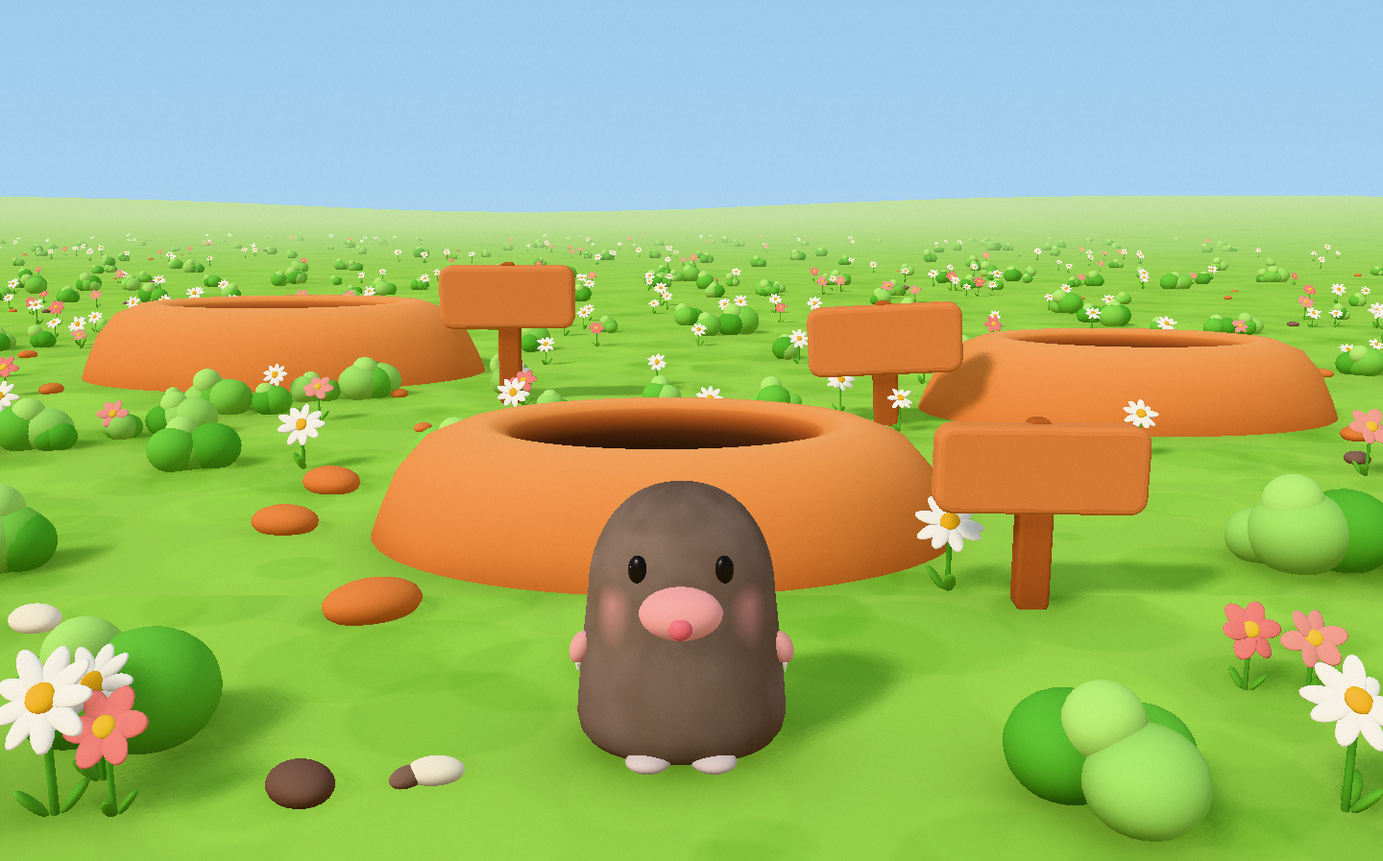
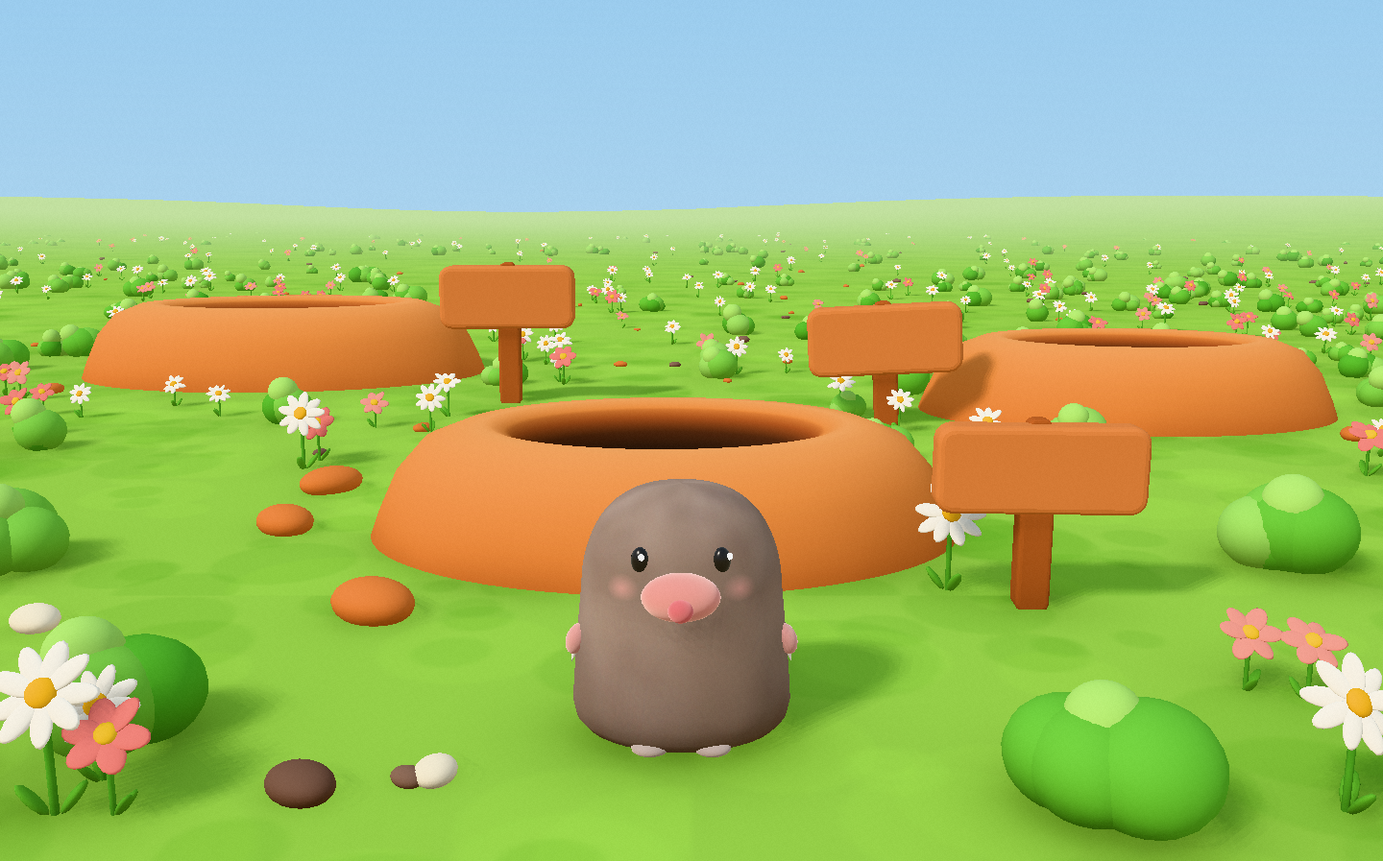
두더지 펠트 질감 (섬유 노멀맵·sheen·잔털 셸), 원본과 9회 비교하며 다듬음

diff --git a/explore/3d/field.html b/explore/3d/field.html
@@ -99,7 +99,7 @@ body.bare .tag,body.bare .handle{display:none!important}
     </section>
     <section class="card">
       <h2>항목별 비교</h2>
-      <ul id="items"><li><span class="pill ok">가까움</span><span>카메라 구도, 지평선 높이, 하늘 그라데이션</span></li><li><span class="pill ok">가까움</span><span>둔덕 3개 위치와 크기, 어두운 구멍</span></li><li><span class="pill ok">가까움</span><span>두더지 실루엣(아래가 넓은 젤리형), 눈·코·볼·손·발 위치</span></li><li><span class="pill warn">부분</span><span>두더지 털 질감과 부드러운 빛 번짐 (원본이 더 보송보송)</span></li><li><span class="pill warn">부분</span><span>표지판 나무결, 둔덕의 울퉁불퉁한 가장자리</span></li><li><span class="pill warn">부분</span><span>먼 곳 꽃·덤불 밀도와 흐려짐</span></li><li><span class="pill ok">가까움</span><span>조명: PlayCanvas 버전과 같은 그라데이션 환경광 + 부드러운 그림자 + N8AO 구석 그림자 ("PlayCanvas식 조명"을 끄면 처음 버전)</span></li></ul>
+      <ul id="items"><li><span class="pill ok">가까움</span><span>카메라 구도, 지평선 높이, 하늘 그라데이션</span></li><li><span class="pill ok">가까움</span><span>둔덕 3개 위치와 크기, 어두운 구멍</span></li><li><span class="pill ok">가까움</span><span>두더지 실루엣(아래가 넓은 젤리형), 눈·코·볼·손·발 위치</span></li><li><span class="pill ok">가까움</span><span>두더지 펠트 질감: 섬유 결 + 천 재질 반사(sheen) + 잔털 막 12겹으로 보송한 윤곽 ("두더지 확대"로 원본과 비교)</span></li><li><span class="pill warn">부분</span><span>부드러운 빛 번짐(간접광)은 원본이 더 풍부함</span></li><li><span class="pill warn">부분</span><span>표지판 나무결, 둔덕의 울퉁불퉁한 가장자리</span></li><li><span class="pill warn">부분</span><span>먼 곳 꽃·덤불 밀도와 흐려짐</span></li><li><span class="pill ok">가까움</span><span>조명: PlayCanvas 버전과 같은 그라데이션 환경광 + 부드러운 그림자 + N8AO 구석 그림자 ("PlayCanvas식 조명"을 끄면 처음 버전)</span></li></ul>
     </section>
   </div>
 </div>
@@ -311,69 +311,136 @@ function sign(base, topY, boardW, boardH, ry = 0, rz = 0) {
 }
 
 /* ---------- 두더지 ---------- */
+/* ---------- 두더지 펠트 재료 ---------- */
+// 섬유 노멀맵: 짧은 털 가닥을 높이맵으로 그린 뒤 기울기로 노멀을 만듦
+function feltNormalTex(size = 512, strands = 9000, rep = [6, 3]) {
+  const c = document.createElement('canvas'); c.width = c.height = size; const g = c.getContext('2d');
+  g.fillStyle = 'rgb(128,128,128)'; g.fillRect(0, 0, size, size);
+  g.lineCap = 'round';
+  for (let i = 0; i < strands; i++) {
+    const x = Math.random() * size, y = Math.random() * size, a = Math.random() * Math.PI * 2, l = 2 + Math.random() * 6, v = Math.random() < .5 ? 175 : 85;
+    g.strokeStyle = `rgba(${v},${v},${v},.55)`; g.lineWidth = .6 + Math.random() * .8;
+    for (const ox of [-size, 0, size]) for (const oy of [-size, 0, size]) { g.beginPath(); g.moveTo(x + ox, y + oy); g.lineTo(x + ox + Math.cos(a) * l, y + oy + Math.sin(a) * l); g.stroke(); }
+  }
+  const src = g.getImageData(0, 0, size, size).data, out = g.createImageData(size, size), h = (x, y) => src[(((y + size) % size) * size + ((x + size) % size)) * 4] / 255;
+  for (let y = 0; y < size; y++) for (let x = 0; x < size; x++) {
+    const dx = (h(x + 1, y) - h(x - 1, y)) * 2.0, dy = (h(x, y + 1) - h(x, y - 1)) * 2.0, l = Math.hypot(dx, dy, 1), i = (y * size + x) * 4;
+    out.data[i] = (-dx / l * .5 + .5) * 255; out.data[i + 1] = (dy / l * .5 + .5) * 255; out.data[i + 2] = (1 / l * .5 + .5) * 255; out.data[i + 3] = 255;
+  }
+  g.putImageData(out, 0, 0);
+  const t = new THREE.CanvasTexture(c); t.wrapS = t.wrapT = THREE.RepeatWrapping; t.repeat.set(...rep); t.anisotropy = 8; return t;
+}
+// 잔털 알파맵: 픽셀마다 무작위 값. 껍질마다 alphaTest를 올려 바깥일수록 털이 드문드문
+function fuzzAlphaTex(size = 512, rep = [10, 5]) {
+  const c = document.createElement('canvas'); c.width = c.height = size; const g = c.getContext('2d'), d = g.createImageData(size, size);
+  for (let i = 0; i < d.data.length; i += 4) { const v = Math.pow(Math.random(), 1.4) * 255; d.data[i] = d.data[i + 1] = d.data[i + 2] = v; d.data[i + 3] = 255; }
+  g.putImageData(d, 0, 0);
+  const t = new THREE.CanvasTexture(c); t.wrapS = t.wrapT = THREE.RepeatWrapping; t.repeat.set(...rep); t.magFilter = THREE.NearestFilter; return t;
+}
+const MOLE_FELT = {
+  body: '#977f72', nose: '#f39e96', tip: '#e9787c', paw: '#f2aaa4', foot: '#ebd2c9',
+  sheen: 1, nScale: .45, shells: 12, fuzz: .014, tipLight: .18,
+  cheekY: .655, cheekPhi: .6, cheekR: 32, cheekA: .5,
+};
+MOLE_FELT.normal = feltNormalTex();
+MOLE_FELT.fuzzTex = fuzzAlphaTex();
+
 function makeMole() {
-  const H = 1, W = .76;           // 높이 1 기준 비율 (높이:폭 ≈ 1.3:1)
+  const H = 1, W = .83;           // 높이 1 기준 비율 (높이:폭 ≈ 1.3:1)
   const R = W / 2;
   // 단면: 평평한 바닥 → 살짝 넓은 아랫부분 → 거의 수직 옆면 → 둥근 머리
   const pts = [new THREE.Vector2(0, 0)];
   pts.push(new THREE.Vector2(R * .82, 0), new THREE.Vector2(R * .96, .018), new THREE.Vector2(R * 1.03, .055), new THREE.Vector2(R * 1.06, .11));
-  for (let i = 1; i <= 10; i++) { const y = .11 + (.6 - .11) * i / 10; pts.push(new THREE.Vector2(R * (1.06 - .13 * Math.pow(i / 10, 1.2)), y)); }
-  const capH = H - .6, r0 = R * .93;
-  for (let i = 1; i <= 24; i++) { const a = i / 24 * Math.PI / 2; pts.push(new THREE.Vector2(Math.max(0.0001, r0 * Math.pow(Math.cos(a), .85)), .6 + capH * Math.pow(Math.sin(a), 1.1))); }
+  for (let i = 1; i <= 10; i++) { const y = .11 + (.6 - .11) * i / 10; pts.push(new THREE.Vector2(R * (1.06 - .1 * Math.pow(i / 10, 1.2)), y)); }
+  const capH = H - .6, r0 = R * .96; // 옆면 꼭대기와 같은 반지름 (턱 없이 이어지게)
+  for (let i = 1; i <= 24; i++) { const a = i / 24 * Math.PI / 2; pts.push(new THREE.Vector2(Math.max(0.0001, r0 * Math.pow(Math.cos(a), .7)), .6 + capH * Math.pow(Math.sin(a), 1.1))); }
   const rAt = y => { for (let i = 1; i < pts.length; i++) if (pts[i].y >= y) { const a = pts[i - 1], b = pts[i]; return a.x + (b.x - a.x) * (y - a.y) / (b.y - a.y || 1); } return 0; };
   const vAt = y => { for (let i = 1; i < pts.length; i++) if (pts[i].y >= y) return (i - 1 + (y - pts[i - 1].y) / (pts[i].y - pts[i - 1].y || 1)) / (pts.length - 1); return 1; };
   const ZS = .84; // 앞뒤로 약간 납작
 
-  // 몸 텍스처: 회갈색 + 은은한 얼룩 + 볼터치
+  /* --- 펠트 재료: 섬유 노멀맵 + 잔털 알파맵 (한 번 만들어 코·손·발도 같이 씀) --- */
+  const FELT = MOLE_FELT;
+
+  /* --- 몸 색 텍스처: 회갈색 + 큰 얼룩 + 볼터치 --- */
   const TW = 1024, TH = 512;
   const c = document.createElement('canvas'); c.width = TW; c.height = TH; const g = c.getContext('2d');
-  g.fillStyle = '#7f695d'; g.fillRect(0, 0, TW, TH);
-  g.filter = 'blur(6px)'; for (let i = 0; i < 260; i++) { g.fillStyle = Math.random() < .6 ? 'rgba(165,142,126,.08)' : 'rgba(80,58,48,.05)'; g.beginPath(); g.ellipse(Math.random() * TW, Math.random() * TH, 20 + Math.random() * 60, 14 + Math.random() * 40, Math.random() * 3, 0, 7); g.fill(); } g.filter = 'none';
-  // 아래쪽은 살짝 어둡게, 머리 쪽은 살짝 밝게
-  const vg = g.createLinearGradient(0, 0, 0, TH); vg.addColorStop(0, 'rgba(40,25,18,.25)'); vg.addColorStop(.35, 'rgba(0,0,0,0)'); vg.addColorStop(1, 'rgba(255,235,220,.06)');
+  g.fillStyle = FELT.body; g.fillRect(0, 0, TW, TH);
+  g.filter = 'blur(10px)';
+  for (let i = 0; i < 200; i++) { g.fillStyle = Math.random() < .6 ? 'rgba(178,158,144,.1)' : 'rgba(84,62,52,.05)'; g.beginPath(); g.ellipse(Math.random() * TW, Math.random() * TH, 30 + Math.random() * 80, 20 + Math.random() * 50, Math.random() * 3, 0, 7); g.fill(); }
+  g.filter = 'none';
+  // 아래쪽은 살짝 어둡게, 머리 쪽은 살짝 밝게 (캔버스 아래 = 몸 아래)
+  const vg = g.createLinearGradient(0, 0, 0, TH); vg.addColorStop(0, 'rgba(255,240,228,.08)'); vg.addColorStop(.7, 'rgba(0,0,0,0)'); vg.addColorStop(1, 'rgba(40,25,18,.06)');
   g.fillStyle = vg; g.fillRect(0, 0, TW, TH);
   // 볼터치 (u: 0.5가 정면, v: 단면 위치)
-  const cheekY = .6, cheekPhi = .78;
   for (const s of [-1, 1]) {
-    const u = .5 + s * cheekPhi / (Math.PI * 2), v = vAt(cheekY);
-    const cx = u * TW, cy = v * TH;  // 캔버스 y는 flipY로 뒤집힘
-    const cyy = TH - cy;
-    const gr = g.createRadialGradient(cx, cyy, 0, cx, cyy, 46);
-    gr.addColorStop(0, 'rgba(246,160,160,.6)'); gr.addColorStop(.55, 'rgba(244,160,160,.28)'); gr.addColorStop(1, 'rgba(240,140,140,0)');
-    g.save(); g.translate(cx, cyy); g.scale(1, 1.05); g.translate(-cx, -cyy); g.fillStyle = gr; g.beginPath(); g.arc(cx, cyy, 46, 0, 7); g.fill(); g.restore();
+    const u = .5 + s * FELT.cheekPhi / (Math.PI * 2), v = vAt(FELT.cheekY);
+    const cx = u * TW, cy = TH - v * TH, r = FELT.cheekR;
+    const gr = g.createRadialGradient(cx, cy, 0, cx, cy, r);
+    gr.addColorStop(0, `rgba(255,172,168,${FELT.cheekA})`); gr.addColorStop(.55, `rgba(255,175,170,${FELT.cheekA * .45})`); gr.addColorStop(1, 'rgba(255,175,170,0)');
+    g.fillStyle = gr; g.beginPath(); g.arc(cx, cy, r, 0, 7); g.fill();
   }
   const tex = new THREE.CanvasTexture(c); tex.colorSpace = THREE.SRGBColorSpace; tex.anisotropy = 8;
 
+  const feltMat = (o) => new THREE.MeshPhysicalMaterial({
+    roughness: 1, metalness: 0,
+    normalMap: FELT.normal, normalScale: new THREE.Vector2(FELT.nScale, FELT.nScale),
+    sheen: FELT.sheen, sheenRoughness: .5, sheenColor: new THREE.Color(o.sheenColor || '#f3e4da'),
+    ...o.base,
+  });
+
   const mole = new THREE.Group();
-  const bodyGeo = new THREE.LatheGeometry(pts, 96, -Math.PI, Math.PI * 2);
-  const body = add(new THREE.Mesh(bodyGeo, new THREE.MeshStandardMaterial({ map: tex, roughness: 1, bumpMap: noiseTex(256, 110, 30, 6), bumpScale: .8 })), mole);
+  const bodyGeo = new THREE.LatheGeometry(pts, 128, -Math.PI, Math.PI * 2);
+  const bodyMat = feltMat({ base: { map: tex } });
+  // 정수리(회전체 극점)에서는 노멀맵 방향 계산이 불안정해 밝은 줄이 생김 → 위로 갈수록 노멀맵 세기를 0으로
+  bodyMat.onBeforeCompile = sh => {
+    sh.vertexShader = 'varying float vPole;\n' + sh.vertexShader.replace('#include <begin_vertex>', '#include <begin_vertex>\n  vPole = 1.0 - smoothstep(0.84, 0.97, position.y);');
+    sh.fragmentShader = 'varying float vPole;\n' + sh.fragmentShader.replace('mapN.xy *= normalScale;', 'mapN.xy *= normalScale * vPole;');
+  };
+  const body = add(new THREE.Mesh(bodyGeo, bodyMat), mole);
   body.scale.z = ZS;
+
+  // 보송한 잔털 막: 몸을 법선 방향으로 조금씩 부풀린 껍질을 여러 겹, 바깥으로 갈수록 털이 드문드문
+  if (FELT.shells) {
+    const pos = bodyGeo.attributes.position, nrm = bodyGeo.attributes.normal;
+    for (let k = 1; k <= FELT.shells; k++) {
+      const t = k / FELT.shells, geo = bodyGeo.clone(), p = geo.attributes.position;
+      const col = new Float32Array(p.count * 3);
+      for (let i = 0; i < p.count; i++) {
+        const y = pos.getY(i); const top = 1 - THREE.MathUtils.smoothstep(y, .86, .99); // 정수리(극점)는 잔털이 한 점에 몰려 밝은 줄이 생겨서 줄임
+        const fade = Math.min(1, y / .04) * (.35 + .65 * top); // 바닥 쪽은 거의 안 부풂
+        const lt = 1 + t * FELT.tipLight * top; col[i * 3] = col[i * 3 + 1] = col[i * 3 + 2] = lt;
+        p.setXYZ(i, pos.getX(i) + nrm.getX(i) * FELT.fuzz * t * fade, y + nrm.getY(i) * FELT.fuzz * t * fade, pos.getZ(i) + nrm.getZ(i) * FELT.fuzz * t * fade);
+      }
+      geo.setAttribute('color', new THREE.BufferAttribute(col, 3));
+      const m = new THREE.MeshStandardMaterial({ map: tex, alphaMap: FELT.fuzzTex, alphaTest: .25 + t * .6, roughness: 1, vertexColors: true });
+      const sh = new THREE.Mesh(geo, m); sh.scale.z = ZS; sh.receiveShadow = true; mole.add(sh);
+    }
+  }
   // 몸 표면 위의 점 (angle 0 = 정면)
   const surf = (y, ang, out = 0) => { const r = rAt(y) + out; return new THREE.Vector3(r * Math.sin(ang), y, r * Math.cos(ang) * ZS); };
 
   // 눈: 까맣고 반짝이는 작은 타원 + 흰 하이라이트
-  const eyeM = new THREE.MeshStandardMaterial({ color: '#1c1310', roughness: .25, metalness: 0 });
+  const eyeM = new THREE.MeshPhysicalMaterial({ color: '#1a1210', roughness: .18, clearcoat: 1, clearcoatRoughness: .1 });
   const hiM = new THREE.MeshBasicMaterial({ color: '#ffffff' });
   for (const s of [-1, 1]) {
-    const ang = s * .5, p = surf(.735, ang, -.01);
-    const e = add(new THREE.Mesh(SPH, eyeM), mole); e.position.copy(p); e.scale.set(.038, .055, .03); e.rotation.y = ang;
-    const h = new THREE.Mesh(SPH, hiM); h.position.copy(surf(.75, ang - .03, .012)); h.scale.setScalar(.011); mole.add(h);
+    const ang = s * .44, p = surf(.765, ang, -.006);
+    const e = add(new THREE.Mesh(SPH, eyeM), mole); e.position.copy(p); e.scale.set(.036, .052, .03); e.rotation.y = ang;
+    const h = new THREE.Mesh(SPH, hiM); h.position.copy(surf(.785, ang + .05, .03)); h.scale.set(.012, .014, .008); mole.add(h);
   }
-  // 코: 크고 넓적한 연분홍 주둥이
-  const noseM = new THREE.MeshStandardMaterial({ color: '#f5a4a0', roughness: .6 });
-  const nose = add(new THREE.Mesh(SPH, noseM), mole);
-  nose.position.copy(surf(.6, 0, -.03)); nose.position.z += .045; nose.scale.set(.15, .095, .1);
-  const nos = add(new THREE.Mesh(SPH, clay('#e8707a', { roughness: .5 })), mole);
-  nos.position.copy(nose.position).add(new THREE.Vector3(0, -.025, .09)); nos.scale.set(.042, .04, .035);
+  // 코: 넓적한 연분홍 펠트 주둥이 + 튀어나온 코끝
+  const nose = add(new THREE.Mesh(SPH, feltMat({ base: { color: FELT.nose }, sheenColor: '#fff0ec' })), mole);
+  nose.position.copy(surf(.645, 0, -.03)); nose.position.z += .045; nose.scale.set(.15, .092, .1);
+  const nos = add(new THREE.Mesh(SPH, feltMat({ base: { color: FELT.tip }, sheenColor: '#ffd6d6' })), mole);
+  nos.position.copy(nose.position).add(new THREE.Vector3(0, -.022, .092)); nos.scale.set(.048, .045, .04);
   // 손: 양옆 분홍 앞발 + 흰 발톱
-  const pawM = clay('#f2a9a3');
+  const pawM = feltMat({ base: { color: FELT.paw }, sheenColor: '#fff0ec' });
   for (const s of [-1, 1]) {
     const p = surf(.38, s * 1.35, -.02);
     const paw = add(new THREE.Mesh(SPH, pawM), mole); paw.position.copy(p); paw.position.x += s * .03; paw.scale.set(.042, .065, .05); paw.rotation.z = s * .35;
-    for (let k = 0; k < 3; k++) { const cl = add(new THREE.Mesh(new THREE.ConeGeometry(.012, .04, 6), clay('#fbf3ea')), mole); cl.position.set(p.x + s * .04, p.y - .07, p.z - .02 + k * .025); cl.rotation.x = Math.PI; }
+    for (let k = 0; k < 2; k++) { const cl = add(new THREE.Mesh(new THREE.ConeGeometry(.01, .045, 6), clay('#fbf3ea')), mole); cl.position.set(p.x + s * .045, p.y - .075, p.z - .005 + k * .022); cl.rotation.set(Math.PI, 0, -s * .3); }
   }
   // 발: 앞쪽 납작한 연분홍 타원
-  for (const s of [-1, 1]) { const f = add(new THREE.Mesh(SPH, clay('#efd8d2')), mole); f.position.set(s * .12, .025, rAt(.03) * ZS * .92); f.scale.set(.085, .035, .075); }
+  for (const s of [-1, 1]) { const f = add(new THREE.Mesh(SPH, feltMat({ base: { color: FELT.foot } })), mole); f.position.set(s * .12, .022, rAt(.03) * ZS * .88); f.scale.set(.074, .03, .062); }
   return mole;
 }
 
@@ -393,7 +460,7 @@ sign(PD(1488, 962), D(0, 708)[1], 1.3, .5, -.05);
 
 // 두더지: 발 위치와 머리 꼭대기를 원본에 맞춤
 {
-  const base = PD(986, 1148);
+  const base = PD(986, 1128);
   const mole = makeMole(); mole.position.copy(base); scene.add(mole);
   const h = heightTo(base, D(0, 786)[1]); mole.scale.setScalar(h);
 }

diff --git a/explore/3d/room.html b/explore/3d/room.html
@@ -456,69 +456,136 @@ box(scene, .8, .35, .5, '#f2e6d4', -1.2, 0, 3.1, .1, .15);
 
 /* ---------- 두더지 (탐색하기 장면과 같은 캐릭터) ---------- */
 const SPH = new THREE.SphereGeometry(1, 32, 20);
+/* ---------- 두더지 펠트 재료 ---------- */
+// 섬유 노멀맵: 짧은 털 가닥을 높이맵으로 그린 뒤 기울기로 노멀을 만듦
+function feltNormalTex(size = 512, strands = 9000, rep = [6, 3]) {
+  const c = document.createElement('canvas'); c.width = c.height = size; const g = c.getContext('2d');
+  g.fillStyle = 'rgb(128,128,128)'; g.fillRect(0, 0, size, size);
+  g.lineCap = 'round';
+  for (let i = 0; i < strands; i++) {
+    const x = Math.random() * size, y = Math.random() * size, a = Math.random() * Math.PI * 2, l = 2 + Math.random() * 6, v = Math.random() < .5 ? 175 : 85;
+    g.strokeStyle = `rgba(${v},${v},${v},.55)`; g.lineWidth = .6 + Math.random() * .8;
+    for (const ox of [-size, 0, size]) for (const oy of [-size, 0, size]) { g.beginPath(); g.moveTo(x + ox, y + oy); g.lineTo(x + ox + Math.cos(a) * l, y + oy + Math.sin(a) * l); g.stroke(); }
+  }
+  const src = g.getImageData(0, 0, size, size).data, out = g.createImageData(size, size), h = (x, y) => src[(((y + size) % size) * size + ((x + size) % size)) * 4] / 255;
+  for (let y = 0; y < size; y++) for (let x = 0; x < size; x++) {
+    const dx = (h(x + 1, y) - h(x - 1, y)) * 2.0, dy = (h(x, y + 1) - h(x, y - 1)) * 2.0, l = Math.hypot(dx, dy, 1), i = (y * size + x) * 4;
+    out.data[i] = (-dx / l * .5 + .5) * 255; out.data[i + 1] = (dy / l * .5 + .5) * 255; out.data[i + 2] = (1 / l * .5 + .5) * 255; out.data[i + 3] = 255;
+  }
+  g.putImageData(out, 0, 0);
+  const t = new THREE.CanvasTexture(c); t.wrapS = t.wrapT = THREE.RepeatWrapping; t.repeat.set(...rep); t.anisotropy = 8; return t;
+}
+// 잔털 알파맵: 픽셀마다 무작위 값. 껍질마다 alphaTest를 올려 바깥일수록 털이 드문드문
+function fuzzAlphaTex(size = 512, rep = [10, 5]) {
+  const c = document.createElement('canvas'); c.width = c.height = size; const g = c.getContext('2d'), d = g.createImageData(size, size);
+  for (let i = 0; i < d.data.length; i += 4) { const v = Math.pow(Math.random(), 1.4) * 255; d.data[i] = d.data[i + 1] = d.data[i + 2] = v; d.data[i + 3] = 255; }
+  g.putImageData(d, 0, 0);
+  const t = new THREE.CanvasTexture(c); t.wrapS = t.wrapT = THREE.RepeatWrapping; t.repeat.set(...rep); t.magFilter = THREE.NearestFilter; return t;
+}
+const MOLE_FELT = {
+  body: '#977f72', nose: '#f39e96', tip: '#e9787c', paw: '#f2aaa4', foot: '#ebd2c9',
+  sheen: 1, nScale: .45, shells: 12, fuzz: .014, tipLight: .18,
+  cheekY: .655, cheekPhi: .6, cheekR: 32, cheekA: .5,
+};
+MOLE_FELT.normal = feltNormalTex();
+MOLE_FELT.fuzzTex = fuzzAlphaTex();
+
 function makeMole() {
-  const H = 1, W = .76;           // 높이 1 기준 비율 (높이:폭 ≈ 1.3:1)
+  const H = 1, W = .83;           // 높이 1 기준 비율 (높이:폭 ≈ 1.3:1)
   const R = W / 2;
   // 단면: 평평한 바닥 → 살짝 넓은 아랫부분 → 거의 수직 옆면 → 둥근 머리
   const pts = [new THREE.Vector2(0, 0)];
   pts.push(new THREE.Vector2(R * .82, 0), new THREE.Vector2(R * .96, .018), new THREE.Vector2(R * 1.03, .055), new THREE.Vector2(R * 1.06, .11));
-  for (let i = 1; i <= 10; i++) { const y = .11 + (.6 - .11) * i / 10; pts.push(new THREE.Vector2(R * (1.06 - .13 * Math.pow(i / 10, 1.2)), y)); }
-  const capH = H - .6, r0 = R * .93;
-  for (let i = 1; i <= 24; i++) { const a = i / 24 * Math.PI / 2; pts.push(new THREE.Vector2(Math.max(0.0001, r0 * Math.pow(Math.cos(a), .85)), .6 + capH * Math.pow(Math.sin(a), 1.1))); }
+  for (let i = 1; i <= 10; i++) { const y = .11 + (.6 - .11) * i / 10; pts.push(new THREE.Vector2(R * (1.06 - .1 * Math.pow(i / 10, 1.2)), y)); }
+  const capH = H - .6, r0 = R * .96; // 옆면 꼭대기와 같은 반지름 (턱 없이 이어지게)
+  for (let i = 1; i <= 24; i++) { const a = i / 24 * Math.PI / 2; pts.push(new THREE.Vector2(Math.max(0.0001, r0 * Math.pow(Math.cos(a), .7)), .6 + capH * Math.pow(Math.sin(a), 1.1))); }
   const rAt = y => { for (let i = 1; i < pts.length; i++) if (pts[i].y >= y) { const a = pts[i - 1], b = pts[i]; return a.x + (b.x - a.x) * (y - a.y) / (b.y - a.y || 1); } return 0; };
   const vAt = y => { for (let i = 1; i < pts.length; i++) if (pts[i].y >= y) return (i - 1 + (y - pts[i - 1].y) / (pts[i].y - pts[i - 1].y || 1)) / (pts.length - 1); return 1; };
   const ZS = .84; // 앞뒤로 약간 납작
 
-  // 몸 텍스처: 회갈색 + 은은한 얼룩 + 볼터치
+  /* --- 펠트 재료: 섬유 노멀맵 + 잔털 알파맵 (한 번 만들어 코·손·발도 같이 씀) --- */
+  const FELT = MOLE_FELT;
+
+  /* --- 몸 색 텍스처: 회갈색 + 큰 얼룩 + 볼터치 --- */
   const TW = 1024, TH = 512;
   const c = document.createElement('canvas'); c.width = TW; c.height = TH; const g = c.getContext('2d');
-  g.fillStyle = '#7f695d'; g.fillRect(0, 0, TW, TH);
-  g.filter = 'blur(6px)'; for (let i = 0; i < 260; i++) { g.fillStyle = Math.random() < .6 ? 'rgba(165,142,126,.08)' : 'rgba(80,58,48,.05)'; g.beginPath(); g.ellipse(Math.random() * TW, Math.random() * TH, 20 + Math.random() * 60, 14 + Math.random() * 40, Math.random() * 3, 0, 7); g.fill(); } g.filter = 'none';
-  // 아래쪽은 살짝 어둡게, 머리 쪽은 살짝 밝게
-  const vg = g.createLinearGradient(0, 0, 0, TH); vg.addColorStop(0, 'rgba(40,25,18,.25)'); vg.addColorStop(.35, 'rgba(0,0,0,0)'); vg.addColorStop(1, 'rgba(255,235,220,.06)');
+  g.fillStyle = FELT.body; g.fillRect(0, 0, TW, TH);
+  g.filter = 'blur(10px)';
+  for (let i = 0; i < 200; i++) { g.fillStyle = Math.random() < .6 ? 'rgba(178,158,144,.1)' : 'rgba(84,62,52,.05)'; g.beginPath(); g.ellipse(Math.random() * TW, Math.random() * TH, 30 + Math.random() * 80, 20 + Math.random() * 50, Math.random() * 3, 0, 7); g.fill(); }
+  g.filter = 'none';
+  // 아래쪽은 살짝 어둡게, 머리 쪽은 살짝 밝게 (캔버스 아래 = 몸 아래)
+  const vg = g.createLinearGradient(0, 0, 0, TH); vg.addColorStop(0, 'rgba(255,240,228,.08)'); vg.addColorStop(.7, 'rgba(0,0,0,0)'); vg.addColorStop(1, 'rgba(40,25,18,.06)');
   g.fillStyle = vg; g.fillRect(0, 0, TW, TH);
   // 볼터치 (u: 0.5가 정면, v: 단면 위치)
-  const cheekY = .6, cheekPhi = .78;
   for (const s of [-1, 1]) {
-    const u = .5 + s * cheekPhi / (Math.PI * 2), v = vAt(cheekY);
-    const cx = u * TW, cy = v * TH;  // 캔버스 y는 flipY로 뒤집힘
-    const cyy = TH - cy;
-    const gr = g.createRadialGradient(cx, cyy, 0, cx, cyy, 46);
-    gr.addColorStop(0, 'rgba(246,160,160,.6)'); gr.addColorStop(.55, 'rgba(244,160,160,.28)'); gr.addColorStop(1, 'rgba(240,140,140,0)');
-    g.save(); g.translate(cx, cyy); g.scale(1, 1.05); g.translate(-cx, -cyy); g.fillStyle = gr; g.beginPath(); g.arc(cx, cyy, 46, 0, 7); g.fill(); g.restore();
+    const u = .5 + s * FELT.cheekPhi / (Math.PI * 2), v = vAt(FELT.cheekY);
+    const cx = u * TW, cy = TH - v * TH, r = FELT.cheekR;
+    const gr = g.createRadialGradient(cx, cy, 0, cx, cy, r);
+    gr.addColorStop(0, `rgba(255,172,168,${FELT.cheekA})`); gr.addColorStop(.55, `rgba(255,175,170,${FELT.cheekA * .45})`); gr.addColorStop(1, 'rgba(255,175,170,0)');
+    g.fillStyle = gr; g.beginPath(); g.arc(cx, cy, r, 0, 7); g.fill();
   }
   const tex = new THREE.CanvasTexture(c); tex.colorSpace = THREE.SRGBColorSpace; tex.anisotropy = 8;
 
+  const feltMat = (o) => new THREE.MeshPhysicalMaterial({
+    roughness: 1, metalness: 0,
+    normalMap: FELT.normal, normalScale: new THREE.Vector2(FELT.nScale, FELT.nScale),
+    sheen: FELT.sheen, sheenRoughness: .5, sheenColor: new THREE.Color(o.sheenColor || '#f3e4da'),
+    ...o.base,
+  });
+
   const mole = new THREE.Group();
-  const bodyGeo = new THREE.LatheGeometry(pts, 96, -Math.PI, Math.PI * 2);
-  const body = add(new THREE.Mesh(bodyGeo, new THREE.MeshStandardMaterial({ map: tex, roughness: 1, bumpMap: noiseTex(256, 110, 30, 6), bumpScale: .8 })), mole);
+  const bodyGeo = new THREE.LatheGeometry(pts, 128, -Math.PI, Math.PI * 2);
+  const bodyMat = feltMat({ base: { map: tex } });
+  // 정수리(회전체 극점)에서는 노멀맵 방향 계산이 불안정해 밝은 줄이 생김 → 위로 갈수록 노멀맵 세기를 0으로
+  bodyMat.onBeforeCompile = sh => {
+    sh.vertexShader = 'varying float vPole;\n' + sh.vertexShader.replace('#include <begin_vertex>', '#include <begin_vertex>\n  vPole = 1.0 - smoothstep(0.84, 0.97, position.y);');
+    sh.fragmentShader = 'varying float vPole;\n' + sh.fragmentShader.replace('mapN.xy *= normalScale;', 'mapN.xy *= normalScale * vPole;');
+  };
+  const body = add(new THREE.Mesh(bodyGeo, bodyMat), mole);
   body.scale.z = ZS;
+
+  // 보송한 잔털 막: 몸을 법선 방향으로 조금씩 부풀린 껍질을 여러 겹, 바깥으로 갈수록 털이 드문드문
+  if (FELT.shells) {
+    const pos = bodyGeo.attributes.position, nrm = bodyGeo.attributes.normal;
+    for (let k = 1; k <= FELT.shells; k++) {
+      const t = k / FELT.shells, geo = bodyGeo.clone(), p = geo.attributes.position;
+      const col = new Float32Array(p.count * 3);
+      for (let i = 0; i < p.count; i++) {
+        const y = pos.getY(i); const top = 1 - THREE.MathUtils.smoothstep(y, .86, .99); // 정수리(극점)는 잔털이 한 점에 몰려 밝은 줄이 생겨서 줄임
+        const fade = Math.min(1, y / .04) * (.35 + .65 * top); // 바닥 쪽은 거의 안 부풂
+        const lt = 1 + t * FELT.tipLight * top; col[i * 3] = col[i * 3 + 1] = col[i * 3 + 2] = lt;
+        p.setXYZ(i, pos.getX(i) + nrm.getX(i) * FELT.fuzz * t * fade, y + nrm.getY(i) * FELT.fuzz * t * fade, pos.getZ(i) + nrm.getZ(i) * FELT.fuzz * t * fade);
+      }
+      geo.setAttribute('color', new THREE.BufferAttribute(col, 3));
+      const m = new THREE.MeshStandardMaterial({ map: tex, alphaMap: FELT.fuzzTex, alphaTest: .25 + t * .6, roughness: 1, vertexColors: true });
+      const sh = new THREE.Mesh(geo, m); sh.scale.z = ZS; sh.receiveShadow = true; mole.add(sh);
+    }
+  }
   // 몸 표면 위의 점 (angle 0 = 정면)
   const surf = (y, ang, out = 0) => { const r = rAt(y) + out; return new THREE.Vector3(r * Math.sin(ang), y, r * Math.cos(ang) * ZS); };
 
   // 눈: 까맣고 반짝이는 작은 타원 + 흰 하이라이트
-  const eyeM = new THREE.MeshStandardMaterial({ color: '#1c1310', roughness: .25, metalness: 0 });
+  const eyeM = new THREE.MeshPhysicalMaterial({ color: '#1a1210', roughness: .18, clearcoat: 1, clearcoatRoughness: .1 });
   const hiM = new THREE.MeshBasicMaterial({ color: '#ffffff' });
   for (const s of [-1, 1]) {
-    const ang = s * .5, p = surf(.735, ang, -.01);
-    const e = add(new THREE.Mesh(SPH, eyeM), mole); e.position.copy(p); e.scale.set(.038, .055, .03); e.rotation.y = ang;
-    const h = new THREE.Mesh(SPH, hiM); h.position.copy(surf(.75, ang - .03, .012)); h.scale.setScalar(.011); mole.add(h);
+    const ang = s * .44, p = surf(.765, ang, -.006);
+    const e = add(new THREE.Mesh(SPH, eyeM), mole); e.position.copy(p); e.scale.set(.036, .052, .03); e.rotation.y = ang;
+    const h = new THREE.Mesh(SPH, hiM); h.position.copy(surf(.785, ang + .05, .03)); h.scale.set(.012, .014, .008); mole.add(h);
   }
-  // 코: 크고 넓적한 연분홍 주둥이
-  const noseM = new THREE.MeshStandardMaterial({ color: '#f5a4a0', roughness: .6 });
-  const nose = add(new THREE.Mesh(SPH, noseM), mole);
-  nose.position.copy(surf(.6, 0, -.03)); nose.position.z += .045; nose.scale.set(.15, .095, .1);
-  const nos = add(new THREE.Mesh(SPH, clay('#e8707a', { roughness: .5 })), mole);
-  nos.position.copy(nose.position).add(new THREE.Vector3(0, -.025, .09)); nos.scale.set(.042, .04, .035);
+  // 코: 넓적한 연분홍 펠트 주둥이 + 튀어나온 코끝
+  const nose = add(new THREE.Mesh(SPH, feltMat({ base: { color: FELT.nose }, sheenColor: '#fff0ec' })), mole);
+  nose.position.copy(surf(.645, 0, -.03)); nose.position.z += .045; nose.scale.set(.15, .092, .1);
+  const nos = add(new THREE.Mesh(SPH, feltMat({ base: { color: FELT.tip }, sheenColor: '#ffd6d6' })), mole);
+  nos.position.copy(nose.position).add(new THREE.Vector3(0, -.022, .092)); nos.scale.set(.048, .045, .04);
   // 손: 양옆 분홍 앞발 + 흰 발톱
-  const pawM = clay('#f2a9a3');
+  const pawM = feltMat({ base: { color: FELT.paw }, sheenColor: '#fff0ec' });
   for (const s of [-1, 1]) {
     const p = surf(.38, s * 1.35, -.02);
     const paw = add(new THREE.Mesh(SPH, pawM), mole); paw.position.copy(p); paw.position.x += s * .03; paw.scale.set(.042, .065, .05); paw.rotation.z = s * .35;
-    for (let k = 0; k < 3; k++) { const cl = add(new THREE.Mesh(new THREE.ConeGeometry(.012, .04, 6), clay('#fbf3ea')), mole); cl.position.set(p.x + s * .04, p.y - .07, p.z - .02 + k * .025); cl.rotation.x = Math.PI; }
+    for (let k = 0; k < 2; k++) { const cl = add(new THREE.Mesh(new THREE.ConeGeometry(.01, .045, 6), clay('#fbf3ea')), mole); cl.position.set(p.x + s * .045, p.y - .075, p.z - .005 + k * .022); cl.rotation.set(Math.PI, 0, -s * .3); }
   }
   // 발: 앞쪽 납작한 연분홍 타원
-  for (const s of [-1, 1]) { const f = add(new THREE.Mesh(SPH, clay('#efd8d2')), mole); f.position.set(s * .12, .025, rAt(.03) * ZS * .92); f.scale.set(.085, .035, .075); }
+  for (const s of [-1, 1]) { const f = add(new THREE.Mesh(SPH, feltMat({ base: { color: FELT.foot } })), mole); f.position.set(s * .12, .022, rAt(.03) * ZS * .88); f.scale.set(.074, .03, .062); }
   return mole;
 }
 

diff --git a/CLAUDE.md b/CLAUDE.md
@@ -118,7 +118,7 @@ msedge --headless=new --use-angle=swiftshader --enable-unsafe-swiftshader ^
 - 2026-11-10 [3D 땅굴 그래픽 기술 조사](docs/3d-tech-research.md): Figma 시안(점토 재질, 간접광, AO)은 한 장짜리 PNG라 그대로 쓸 수 없음. **three.js 조명·재질·후처리 강화(A)로 시작하고, 두더지와 땅굴 껍데기만 glb 모델(B)로 교체** 추천. 다음 단계는 땅굴 하나에 1단계를 적용한 시험판
 - 2026-11-10 [Figma 땅굴 three.js 재현 시험판](docs/3d-figma-reproduction.md): 코드만으로 구도·돔·색감·배치는 꽤 가깝게 됨. 두더지 털·곡면·간접광은 한계 → **두더지와 주요 가구만 glb, 껍데기는 간접광 굽기** 추천. 원본 Blender 파일 유무 확인이 다음 단계
 - 2026-11-10 [3D 엔진 비교: three.js · Babylon.js · PlayCanvas](docs/3d-engine-candidates.md): 같은 두 장면을 세 엔진으로 만들어 비교. 결과가 비슷한 수준에서 멈춤(한계는 방식 탓) → **three.js 추천**(가볍고 React 앱에 붙이기 쉬움). 두더지 캐릭터는 세 엔진 모두 원본 비율·얼굴까지 맞춤
-- 2026-11-10 [PlayCanvas vs three.js 실무 분석](docs/playcanvas-vs-threejs.md): 사용자는 PlayCanvas 결과가 가장 좋다고 봄. 차이 대부분은 조명 기법(그라데이션 환경광·PCSS·SSAO)이라 three.js로 옮길 수 있음. 앱에는 three.js(R3F)가 유리(gzip 167KB vs 655KB, React 생태계). → 조명을 옮겨 보니 three.js로도 거의 같은 느낌(N8AO 사용). 다음: 엔진 확정 후 `app/` RoomView에 R3F로 이식
+- 2026-11-10 [PlayCanvas vs three.js 실무 분석](docs/playcanvas-vs-threejs.md): 사용자는 PlayCanvas 결과가 가장 좋다고 봄. 차이 대부분은 조명 기법(그라데이션 환경광·PCSS·SSAO)이라 three.js로 옮길 수 있음. 앱에는 three.js(R3F)가 유리(gzip 167KB vs 655KB, React 생태계). → 조명을 옮겨 보니 three.js로도 거의 같은 느낌(N8AO 사용). 두더지는 펠트 질감(섬유 노멀맵 + sheen + 잔털 셸 12겹)으로 9회 다듬음 (explore/3d/NOTES.md). 다음: 엔진 확정 후 `app/` RoomView에 R3F로 이식
 
 ## 남은 아이디어 / 미확인
 - 390px 실제 모바일 화면은 스크린샷으로 확인 못 함
